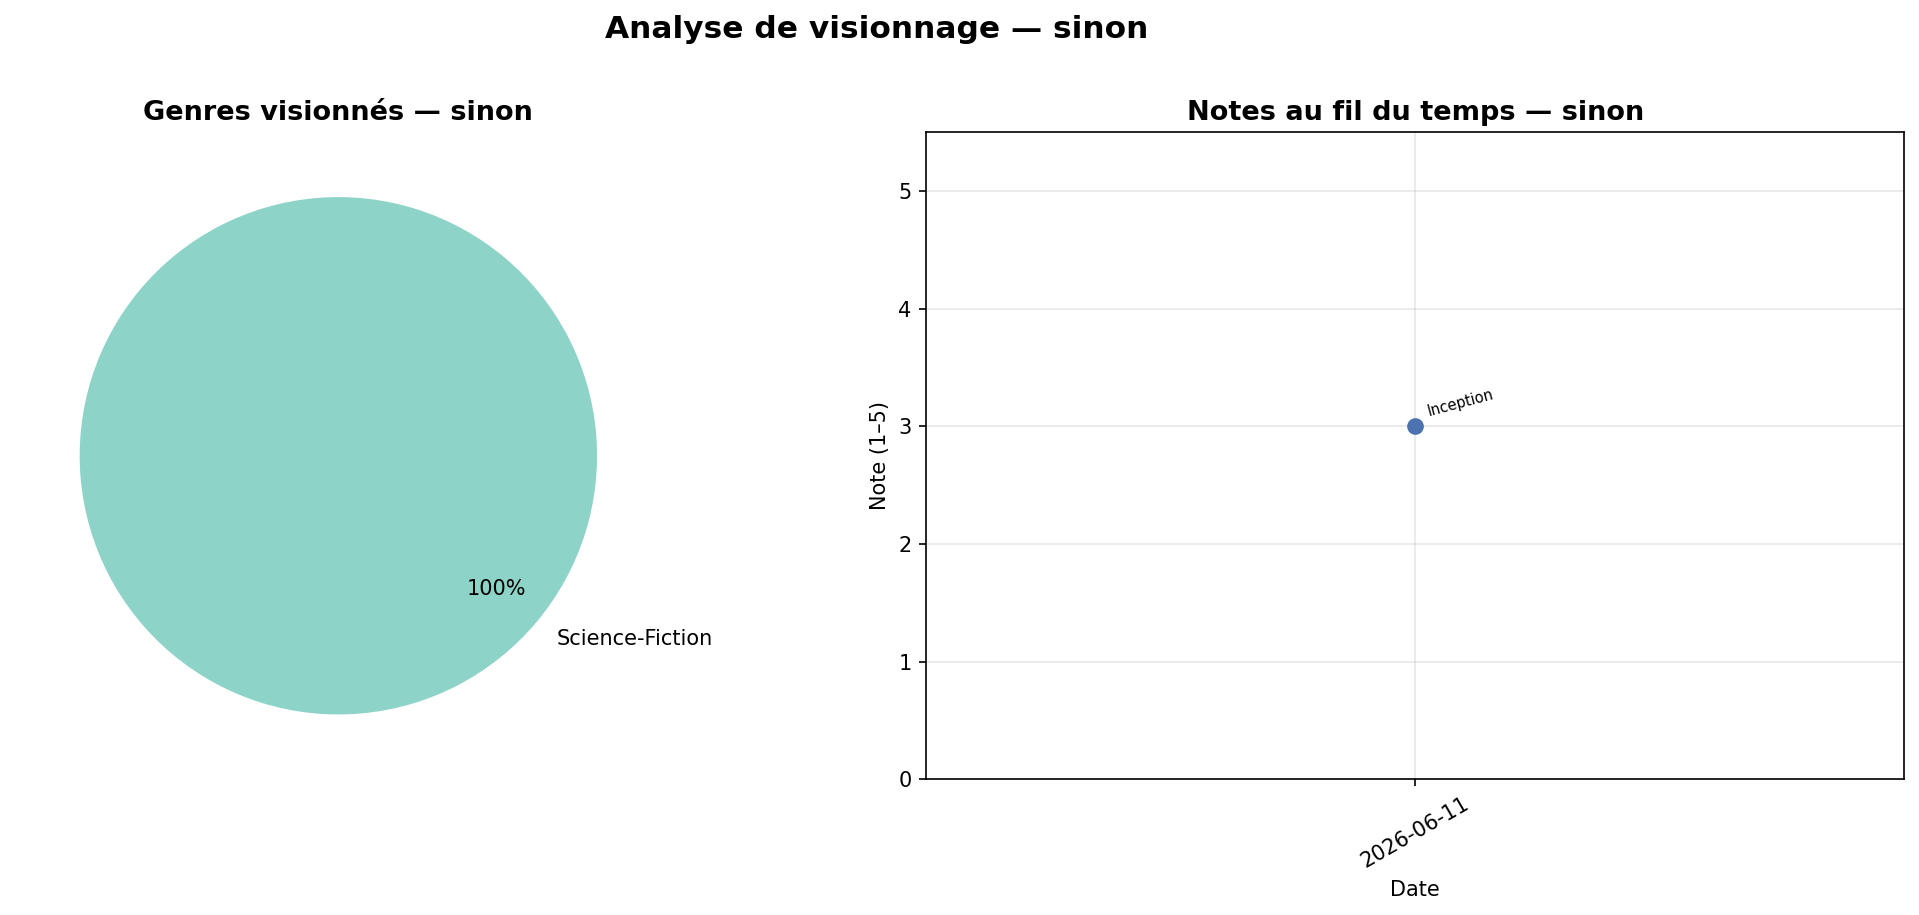
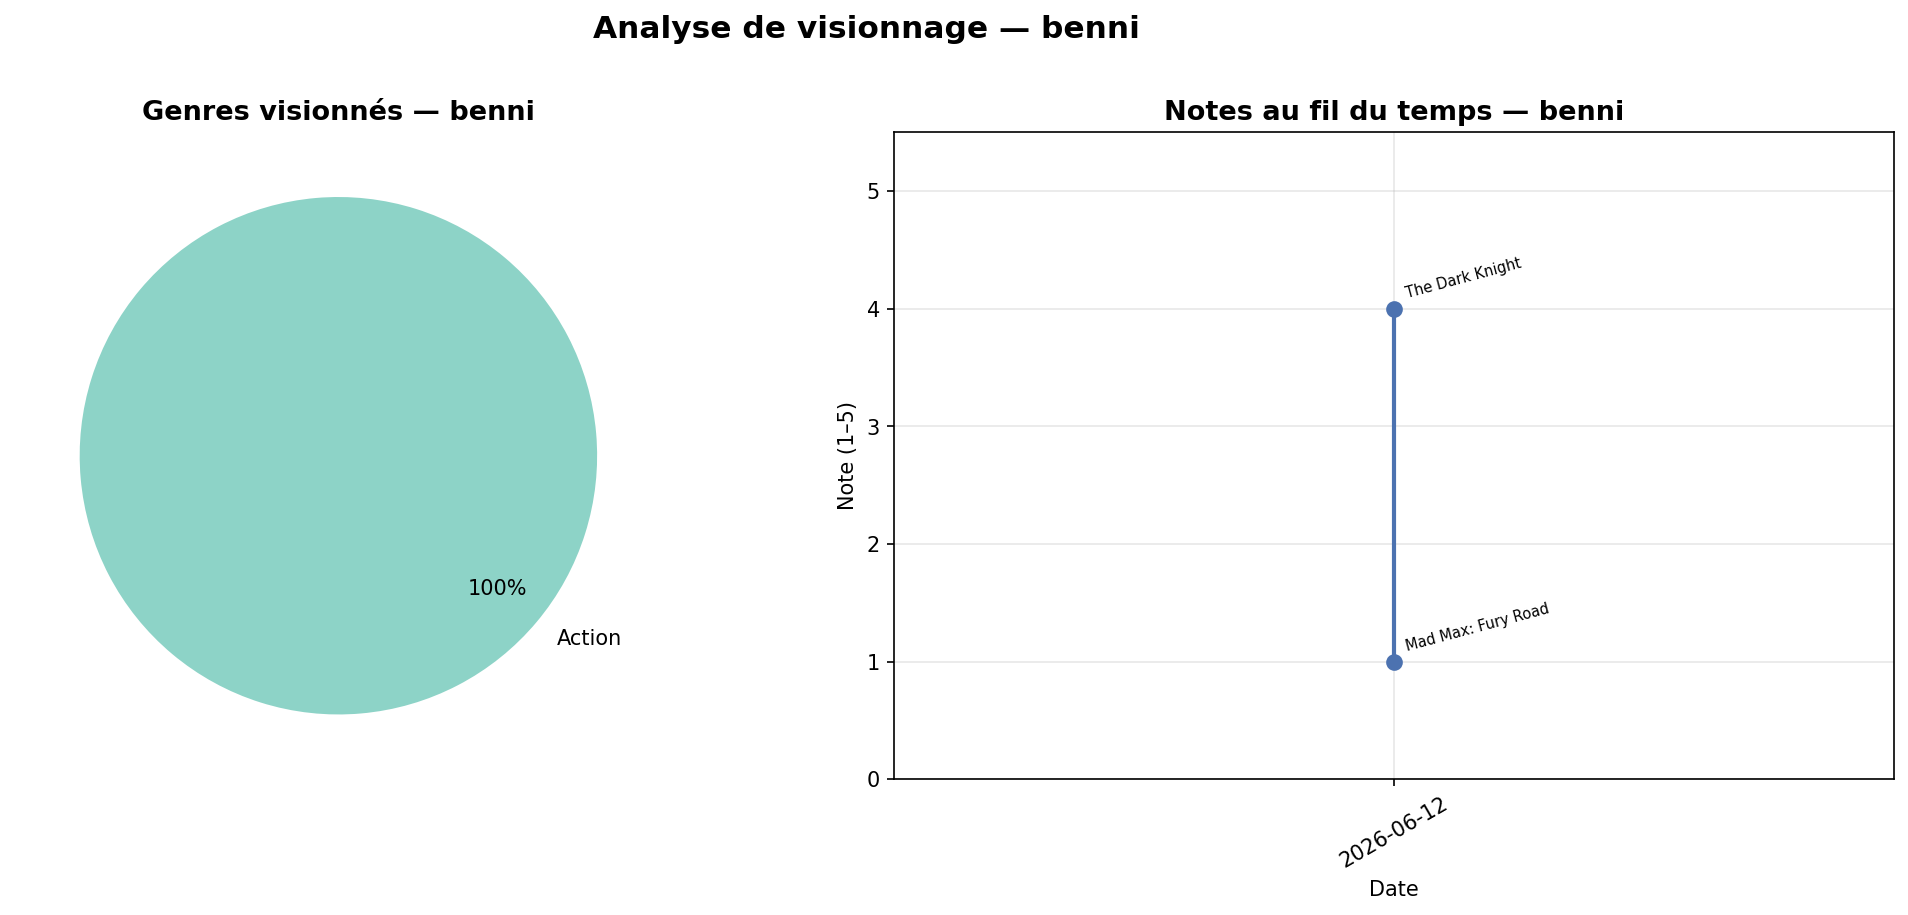
hachathon

diff --git a/week3/Hackathon/app.js b/week3/Hackathon/app.js
@@ -48,7 +48,6 @@ const LOADING_MESSAGES = [
     'Analyse en cours…',
     'Calcul des préférences…',
     'Recherche de profils similaires…',
-    'Corrélation de Pearson…',
     'Application du clustering K-Means…',
     'Génération des recommandations…'
 ];
@@ -107,7 +106,7 @@ async function saveUserToAPI(user) {
         };
 
         // Check if user already exists
-        const existingIndex = allUsers.findIndex(u => u.name === user.name);
+        const existingIndex = allUsers.findIndex(u => (u.name || `Utilisateur ${u.id}`).toLowerCase() === user.name.toLowerCase());
         if (existingIndex !== -1) {
             // Update existing user
             const response = await fetch(`/api/users/${user.name}`, {
@@ -785,31 +784,51 @@ function renderCatalog() {
     const grid = document.getElementById('catalog-grid');
     const watchedIds = new Set(currentUser.history.map(h => h.film.id));
 
-    grid.innerHTML = CATALOG.map(film => {
-        const isWatched = watchedIds.has(film.id);
-        return `
-            <div class="catalog-card${isWatched ? ' watched' : ''}" data-film-id="${film.id}">
-                <div class="catalog-card-top">
-                    ${renderGenreBadge(film.genre)}
-                    <div class="film-info">
-                        <span class="film-title">${film.title}</span>
-                        <span class="film-director">${film.director}</span>
-                    </div>
-                </div>
-                <div class="catalog-card-bottom">
-                    <div class="catalog-avg">
-                        <span class="star filled">★</span> ${film.avgRating.toFixed(1)} moyenne
-                    </div>
-                    <button class="btn-watch${isWatched ? ' watched' : ''}"
-                            onclick="handleWatchFilm(${film.id})"
-                            ${isWatched ? 'disabled' : ''}>
-                        ${isWatched ? '✓ Vu' : '▶ Regarder'}
-                    </button>
+    let html = '';
+    currentUser.preferredGenres.forEach(genre => {
+        // Find films in this genre
+        const genreFilms = CATALOG.filter(f => f.genre === genre);
+        if (genreFilms.length === 0) return;
+
+        // Sort by average rating descending, then take top 3
+        const topFilms = [...genreFilms]
+            .sort((a, b) => b.avgRating - a.avgRating)
+            .slice(0, 3);
+
+        html += `
+            <div class="genre-section">
+                <h4 class="genre-section-title" style="color: ${GENRE_COLORS[genre]}">${genre}</h4>
+                <div class="catalog-grid">
+                    ${topFilms.map(film => {
+                        const isWatched = watchedIds.has(film.id);
+                        return `
+                            <div class="catalog-card${isWatched ? ' watched' : ''}" data-film-id="${film.id}">
+                                <div class="catalog-card-top">
+                                    ${renderGenreBadge(film.genre)}
+                                    <div class="film-info">
+                                        <span class="film-title">${film.title}</span>
+                                        <span class="film-director">${film.director}</span>
+                                    </div>
+                                </div>
+                                <div class="catalog-card-bottom">
+                                    <div class="catalog-avg">
+                                        <span class="star filled">★</span> ${film.avgRating.toFixed(1)} moyenne
+                                    </div>
+                                    <button class="btn-watch${isWatched ? ' watched' : ''}"
+                                            onclick="handleWatchFilm(${film.id})"
+                                            ${isWatched ? 'disabled' : ''}>
+                                        ${isWatched ? '✓ Vu' : '▶ Regarder'}
+                                    </button>
+                                </div>
+                            </div>
+                        `;
+                    }).join('')}
                 </div>
             </div>
         `;
-    }).join('');
+    });
 
+    grid.innerHTML = html;
     section.classList.remove('hidden');
 }
 
@@ -907,40 +926,7 @@ function renderRecommendations(prefRecos, simResult, clusterResult, inspiringMsg
     // Block 1: By Preferences
     html += `
         <div class="reco-block">
-            <div class="reco-block-header">
-                <div class="reco-block-icon pref">🎯</div>
-                <div>
-                    <div class="reco-block-title">Par préférences</div>
-                    <div class="reco-block-subtitle">Films correspondant à vos genres favoris</div>
-                </div>
-            </div>
-            <div class="reco-film-list">
-                ${prefRecos.length > 0
-                    ? prefRecos.map(f => renderFilmCard(f, f.avgRating)).join('')
-                    : '<div class="reco-empty">Aucune recommandation disponible — tous les films de vos genres ont été vus.</div>'
-                }
-            </div>
-        </div>
-    `;
-
-    // Block 2: By Similarity (Pearson)
-    const corrDisplay = simResult.correlation !== undefined ? (simResult.correlation * 100).toFixed(0) : '—';
-    html += `
-        <div class="reco-block">
-            <div class="reco-block-header">
-                <div class="reco-block-icon sim">🔗</div>
-                <div>
-                    <div class="reco-block-title">Par similarité (Pearson)</div>
-                    <div class="reco-block-subtitle">Utilisateur le plus similaire identifié</div>
-                </div>
-            </div>
-            ${simResult.user ? `<div class="similarity-info">Profil le plus proche : <strong>${simResult.user.name}</strong> — corrélation : <strong>${corrDisplay}%</strong></div>` : ''}
-            <div class="reco-film-list">
-                ${simResult.films.length > 0
-                    ? simResult.films.map(f => renderFilmCard(f, f.avgRating)).join('')
-                    : '<div class="reco-empty">Aucun film bien noté non vu trouvé chez l\'utilisateur le plus similaire.</div>'
-                }
-            </div>
+            
         </div>
     `;
 
@@ -950,8 +936,8 @@ function renderRecommendations(prefRecos, simResult, clusterResult, inspiringMsg
             <div class="reco-block-header">
                 <div class="reco-block-icon cluster">🧩</div>
                 <div>
-                    <div class="reco-block-title">Par cluster (K-Means)</div>
-                    <div class="reco-block-subtitle">${clusterResult.clusterSize} utilisateur(s) dans votre cluster</div>
+                  
+                    <div class="reco-block-subtitle">${clusterResult.clusterSize} utilisateur(s) similaire à vous</div>
                 </div>
             </div>
             <div class="reco-film-list">
@@ -1035,7 +1021,7 @@ async function handleCreateUser(e) {
     const preferredGenres = [...selectedGenres];
 
     // Check if the user already exists to load their existing history!
-    const existing = allUsers.find(u => u.name.toLowerCase() === name.toLowerCase());
+    const existing = allUsers.find(u => (u.name || `Utilisateur ${u.id}`).toLowerCase() === name.toLowerCase());
     let history = [];
     if (existing && existing.watch_history) {
         history = existing.watch_history.map(h => {
@@ -1093,8 +1079,8 @@ async function handleRecommendations() {
         ? validHistory[validHistory.length - 1].film.title
         : currentUser.history[currentUser.history.length - 1].film.title;
 
-    // First recommendation from any source
-    const allRecos = [...prefRecos, ...simResult.films, ...clusterResult.films];
+    // First recommendation from any source (excluding Pearson)
+    const allRecos = [...prefRecos, ...clusterResult.films];
     const firstReco = allRecos.length > 0 ? allRecos[0].title : null;
 
     const inspiringMsg = firstReco ? { lastFilm, recommendation: firstReco } : null;

diff --git a/week3/Hackathon/index.html b/week3/Hackathon/index.html
@@ -6,7 +6,7 @@
     <meta name="viewport" content="width=device-width, initial-scale=1.0">
     <title>CinéMatch — Recommandations de Films Intelligentes</title>
     <meta name="description"
-        content="Système de recommandation de films intelligent avec analyse de profil, similarité Pearson et clustering K-Means. Générez votre profil et découvrez vos prochains films préférés.">
+        content="Système de recommandation de films intelligent avec analyse de profil et clustering K-Means. Générez votre profil et découvrez vos prochains films préférés.">
     <link href="https://fonts.googleapis.com/css2?family=Inter:wght@300;400;500;600;700;800;900&display=swap"
         rel="stylesheet">
     <link rel="stylesheet" href="styles.css">
@@ -66,7 +66,7 @@
                     <h3>📀 Catalogue de films</h3>
                     <p class="catalog-hint">Cliquez sur « Regarder » pour ajouter un film à votre historique</p>
                 </div>
-                <div id="catalog-grid" class="catalog-grid"></div>
+                <div id="catalog-grid" class="catalog-container"></div>
             </div>
         </section>
 

diff --git a/week3/Hackathon/styles.css b/week3/Hackathon/styles.css
@@ -925,6 +925,21 @@ footer {
     color: var(--text-muted);
 }
 
+.genre-section {
+    margin-bottom: var(--space-xl);
+    animation: fade-in-up 0.5s var(--ease-out-expo) backwards;
+}
+
+.genre-section-title {
+    font-size: 1.1rem;
+    font-weight: 700;
+    margin-bottom: var(--space-md);
+    padding-bottom: var(--space-xs);
+    border-bottom: 1px solid var(--border-subtle);
+    text-transform: uppercase;
+    letter-spacing: 0.05em;
+}
+
 .catalog-grid {
     display: grid;
     grid-template-columns: repeat(auto-fill, minmax(270px, 1fr));

diff --git a/week3/Hackathon/server.js b/week3/Hackathon/server.js
@@ -61,7 +61,7 @@ app.put('/api/users/:name', (req, res) => {
         }
 
         const userName = req.params.name;
-        const index = users.findIndex(u => u.name === userName);
+        const index = users.findIndex(u => (u.name || `Utilisateur ${u.id}`).toLowerCase() === userName.toLowerCase());
 
         if (index !== -1) {
             users[index] = req.body;

diff --git a/week3/Hackathon/generate_viz.py b/week3/Hackathon/generate_viz.py
@@ -23,6 +23,10 @@ GENRES_VALIDES = ["action", "drame", "comédie", "thriller", "sci-fi", "horreur"
 SCRIPT_DIR = os.path.dirname(os.path.abspath(__file__))
 
 
+def get_user_name(u: dict) -> str:
+    return u.get("name") or f"Utilisateur {u.get('id', '')}"
+
+
 def charger_utilisateurs() -> list:
     path = os.path.join(SCRIPT_DIR, "utilisateurs.json")
     try:
@@ -52,7 +56,7 @@ def pie_genres(utilisateur: dict, ax: plt.Axes):
     if not genres:
         ax.text(0.5, 0.5, "Aucun genre valide", ha='center', va='center',
                 fontsize=13, transform=ax.transAxes)
-        ax.set_title(f"Genres visionnés — {utilisateur['name']}", fontsize=13, fontweight="bold")
+        ax.set_title(f"Genres visionnés — {get_user_name(utilisateur)}", fontsize=13, fontweight="bold")
         ax.axis('off')
         return
 
@@ -69,7 +73,7 @@ def pie_genres(utilisateur: dict, ax: plt.Axes):
         startangle=140,
         pctdistance=0.8,
     )
-    ax.set_title(f"Genres visionnés — {utilisateur['name']}", fontsize=13, fontweight="bold")
+    ax.set_title(f"Genres visionnés — {get_user_name(utilisateur)}", fontsize=13, fontweight="bold")
 
 
 def line_notes(utilisateur: dict, ax: plt.Axes):
@@ -82,7 +86,7 @@ def line_notes(utilisateur: dict, ax: plt.Axes):
     if not valides:
         ax.text(0.5, 0.5, "Aucune note valide", ha='center', va='center',
                 fontsize=13, transform=ax.transAxes)
-        ax.set_title(f"Notes au fil du temps — {utilisateur['name']}", fontsize=13, fontweight="bold")
+        ax.set_title(f"Notes au fil du temps — {get_user_name(utilisateur)}", fontsize=13, fontweight="bold")
         return
 
     dates  = [h["date"] for h in valides]
@@ -99,7 +103,7 @@ def line_notes(utilisateur: dict, ax: plt.Axes):
         ax.axvline(x=h["date"], color='red', linestyle='--', alpha=0.3, linewidth=1)
         ax.text(h["date"], 0.2, '✕', color='red', fontsize=9, ha='center')
 
-    ax.set_title(f"Notes au fil du temps — {utilisateur['name']}", fontsize=13, fontweight="bold")
+    ax.set_title(f"Notes au fil du temps — {get_user_name(utilisateur)}", fontsize=13, fontweight="bold")
     ax.set_xlabel("Date")
     ax.set_ylabel("Note (1–5)")
     ax.set_ylim(0, 5.5)
@@ -118,7 +122,7 @@ def generer_visualisation(nom_utilisateur: str = None):
     cible = None
     if nom_utilisateur:
         for u in utilisateurs:
-            if u["name"].lower() == nom_utilisateur.lower():
+            if get_user_name(u).lower() == nom_utilisateur.lower():
                 cible = u
                 break
 
@@ -126,10 +130,10 @@ def generer_visualisation(nom_utilisateur: str = None):
         # Prendre le dernier utilisateur ajouté (le plus récent)
         cible = utilisateurs[-1]
 
-    print(f" Visualisation pour : {cible['name']}")
+    print(f" Visualisation pour : {get_user_name(cible)}")
 
     fig, axes = plt.subplots(1, 2, figsize=(14, 6))
-    fig.suptitle(f"Analyse de visionnage — {cible['name']}", fontsize=15, fontweight="bold", y=1.01)
+    fig.suptitle(f"Analyse de visionnage — {get_user_name(cible)}", fontsize=15, fontweight="bold", y=1.01)
 
     pie_genres(cible, axes[0])
     line_notes(cible, axes[1])
